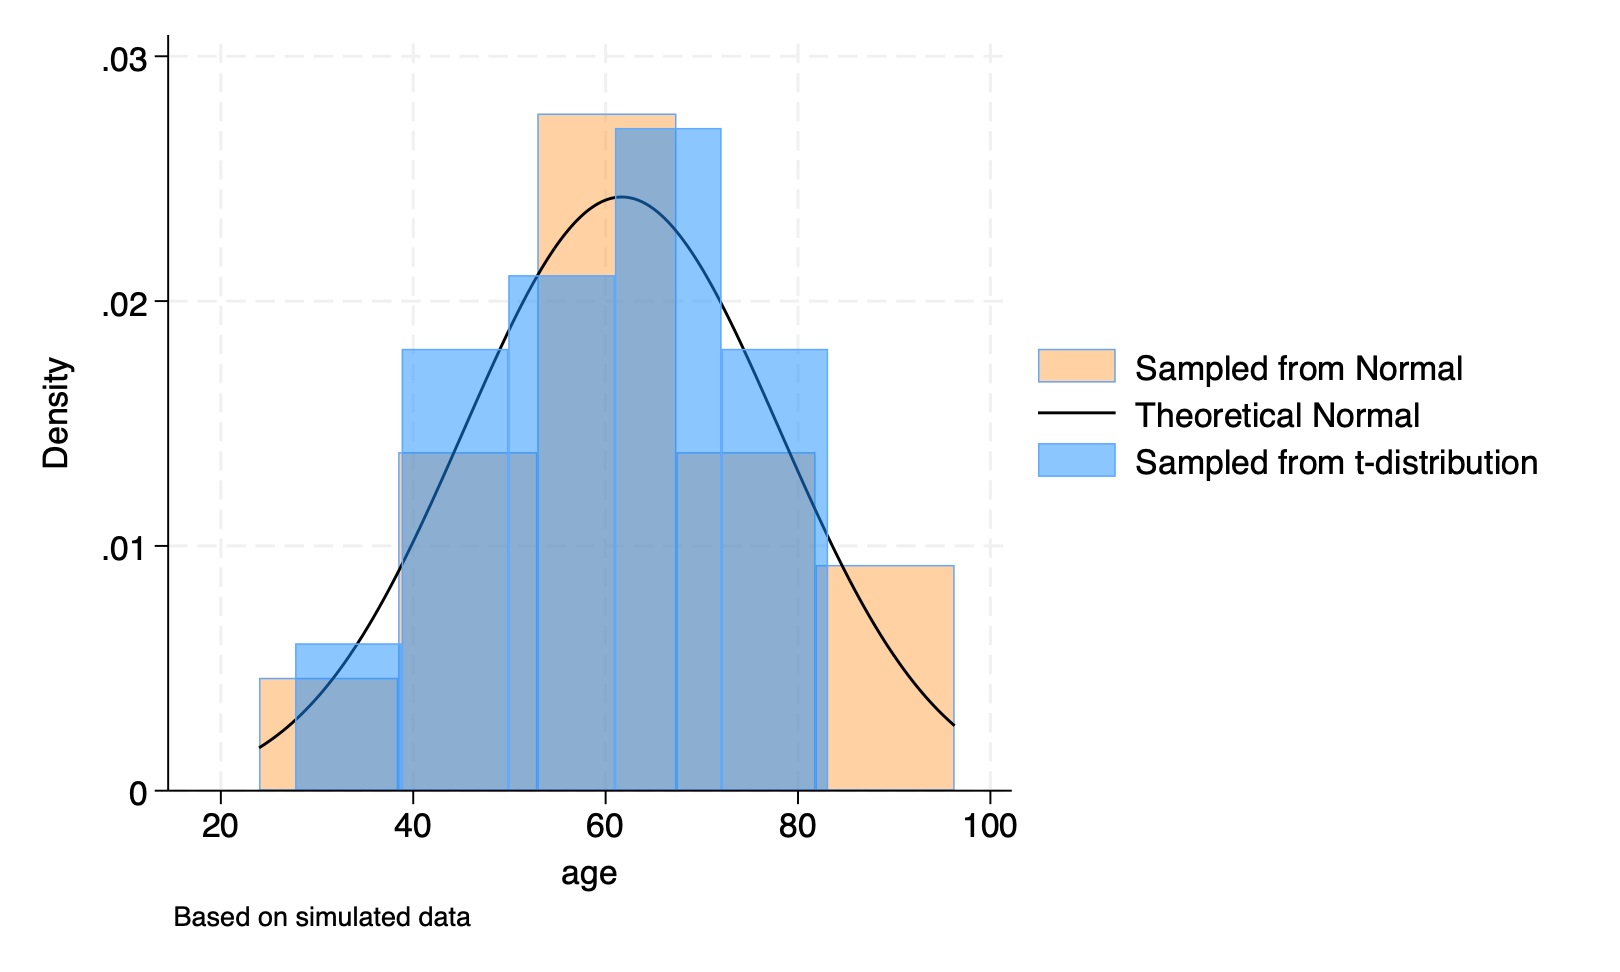
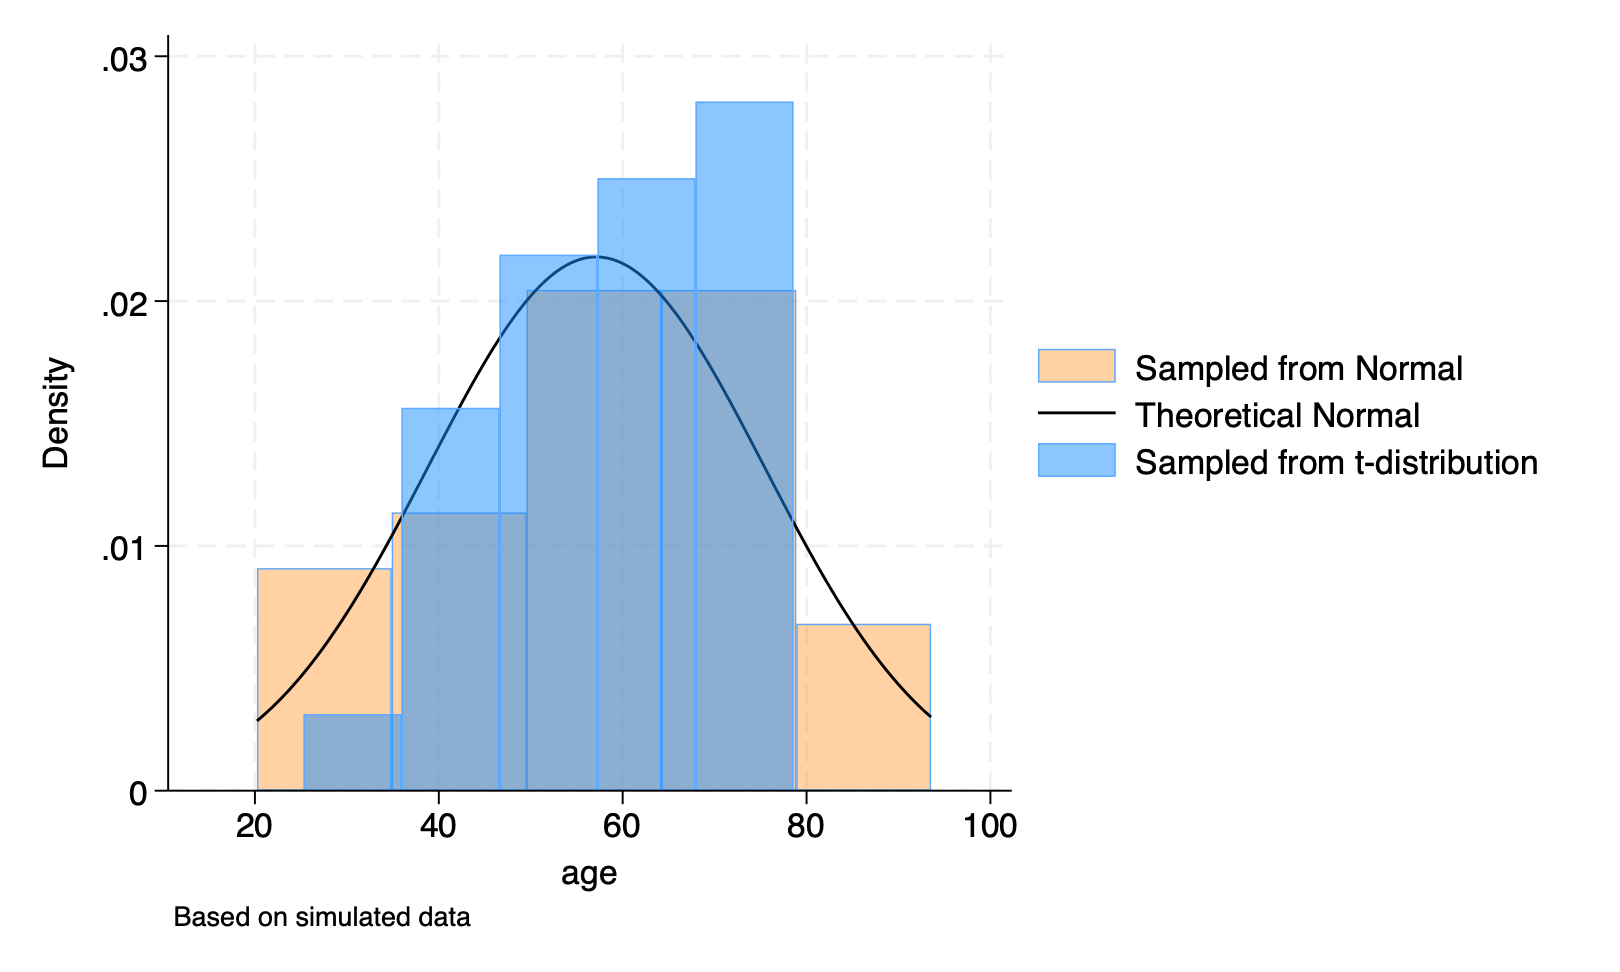
hw4

diff --git a/index.html b/index.html
@@ -9,7 +9,7 @@
 </head>
 <h1><a href="#homework-4" id="homework-4">Homework 4</a></h1>
 <h3><a href="#yawen-zhou-mbbs-mhs-candidate" id="yawen-zhou-mbbs-mhs-candidate">Yawen Zhou, MBBS (MHS Candidate)</a></h3>
-<p><strong>Background:</strong> In homework 4, we performed a data simulation process and visualize the simulated data distribution via histogram.</p>
+<p><strong>Background:</strong> In homework 4, we performed a data simulation process and visualized the simulated data distribution via histogram.</p>
 <p><strong>Methods:</strong> We first set the number of observations in the dataset to 30, and then generated an &ldquo;age&rdquo; variable with a mean of 57 years and a standard deviation of 15 from normal distribution, and an &ldquo;age_t&rdquo; variable with the same mean and standard deviation from t distribution. To visualize the simulated data, we created two histograms showing the distribution of &ldquo;age&rdquo; (shown in orange) and &ldquo;age_t&rdquo; (shown in blue) overlaid by a theoretical normal distribution curve.</p>
 <pre><code>. clear
 
@@ -53,11 +53,11 @@
      +-----------------------+
      |       age       age_t |
      |-----------------------|
-  1. | 82.335955    27.71921 |
-  2. | 55.082802   65.855139 |
-  3. |  54.34696   46.712831 |
-  4. | 48.991309   80.863075 |
-  5. | 71.783561    39.41721 |
+  1. | 87.383817   77.734269 |
+  2. | 72.639467   53.714574 |
+  3. | 61.465685   51.671472 |
+  4. | 31.168025   74.933006 |
+  5. | 46.062007   60.643403 |
      +-----------------------+
 
 </code></pre>
